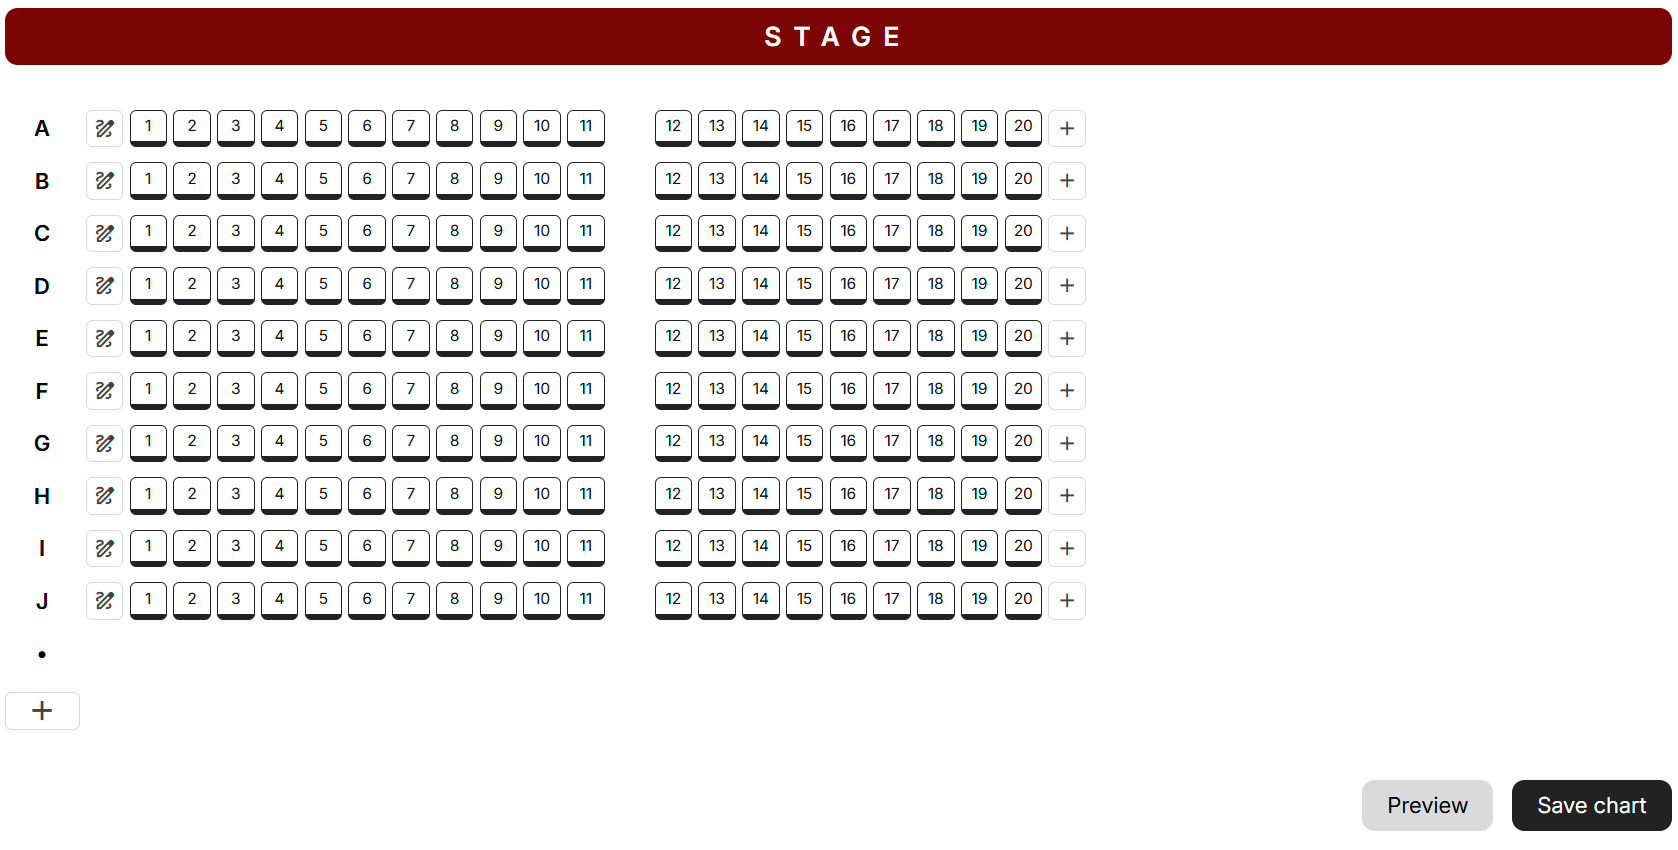
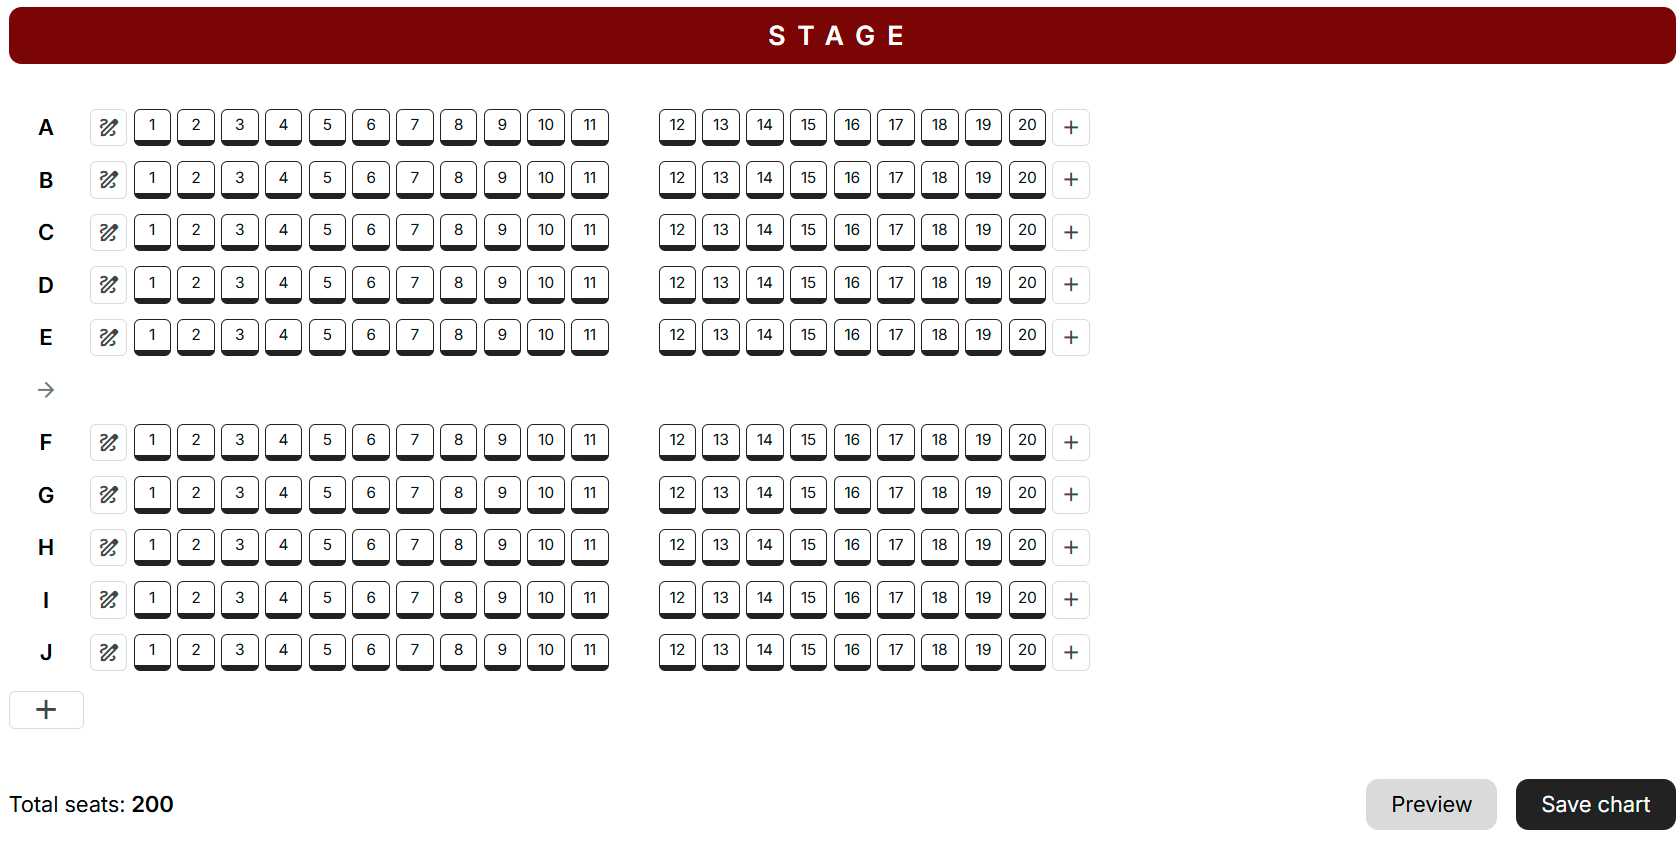
Update screenshot.

diff --git a/src/App.tsx b/src/App.tsx
@@ -297,7 +297,7 @@ const App = (): React.JSX.Element => {
 
       <div className='flex flex-space-between flex-v-center buttons'>
         <div>
-          Toplam koltuk adedi: <strong>{getTotalAvailableSeats()}</strong>
+          Total seats: <strong>{getTotalAvailableSeats()}</strong>
         </div>
         <div className='flex flex-gap-medium'>
           <button type='button' className='button gray' onClick={() => {}}>
